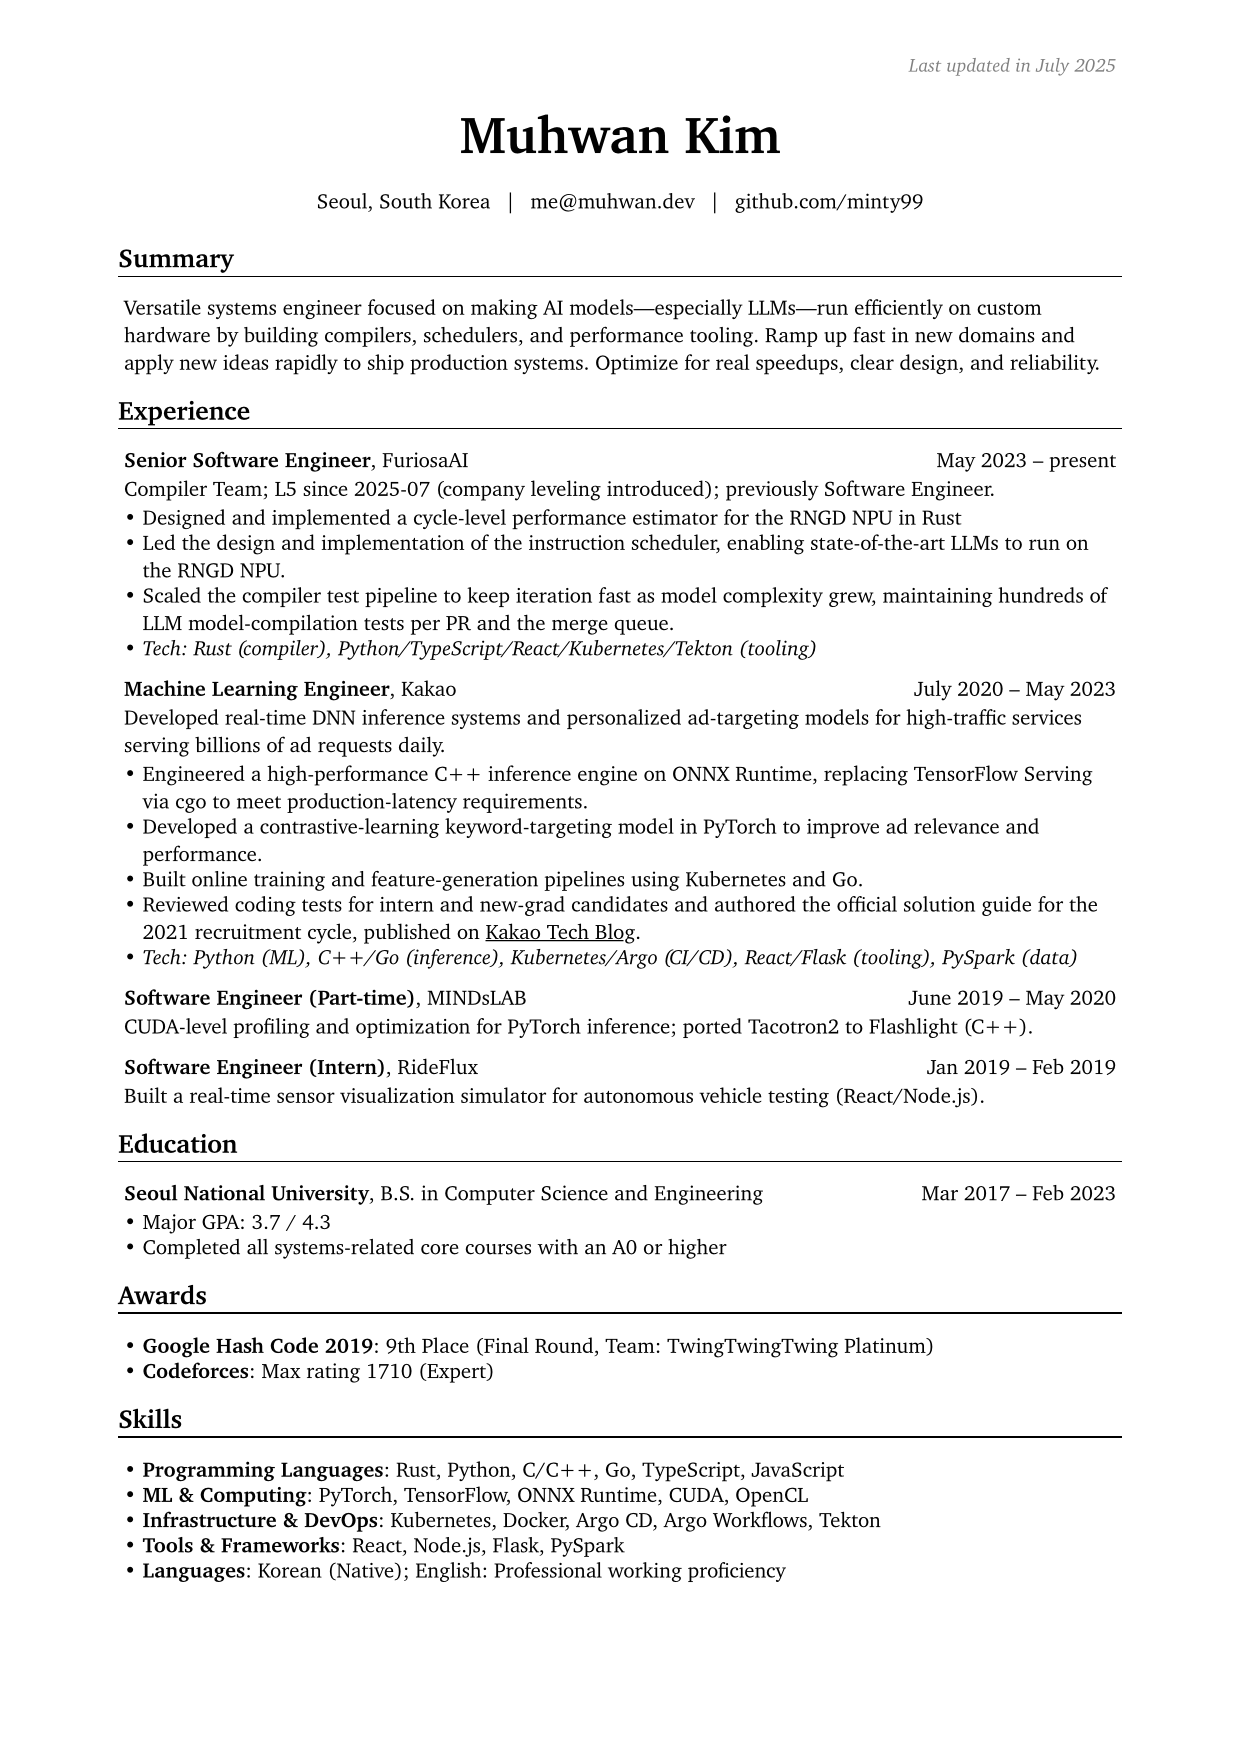
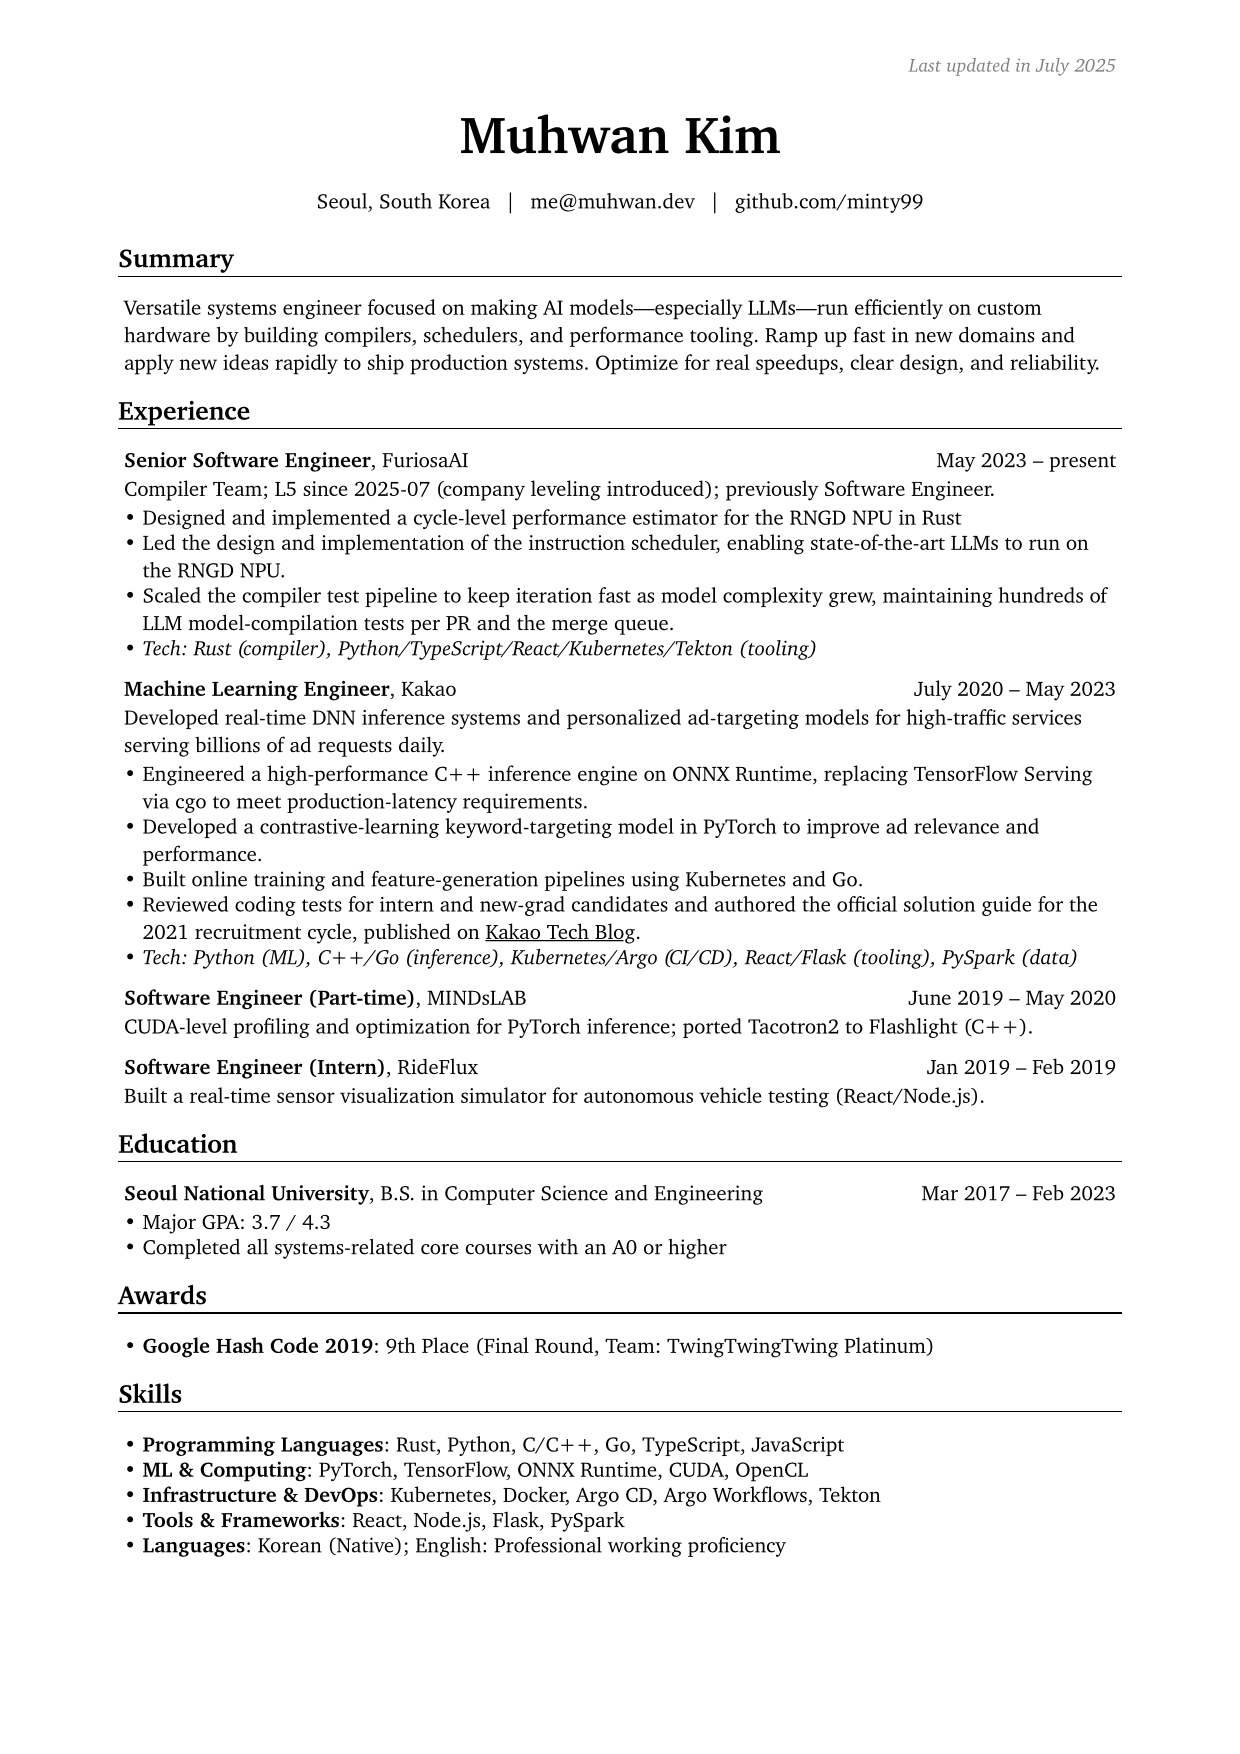
edit: remove Codeforces rating

Changed region(s): [[0.0919, 0.7697, 0.7048, 0.9236]]

diff --git a/rendercv_output/Muhwan_Kim_CV.html b/rendercv_output/Muhwan_Kim_CV.html
@@ -89,7 +89,6 @@
         <h2></h2>
         <ul>
         <li><strong>Google Hash Code 2019</strong>: 9th Place (Final Round, Team: TwingTwingTwing Platinum)</li>
-        <li><strong>Codeforces</strong>: Max rating 1710 (Expert)</li>
         </ul>
         <h1>Skills</h1>
         <h2></h2>

diff --git a/rendercv_output/Muhwan_Kim_CV.md b/rendercv_output/Muhwan_Kim_CV.md
@@ -54,7 +54,6 @@ Versatile systems engineer focused on making AI models—especially LLMs—run e
 ## 
 
 - **Google Hash Code 2019**: 9th Place (Final Round, Team: TwingTwingTwing Platinum)
-- **Codeforces**: Max rating 1710 (Expert)
 
 # Skills
 
